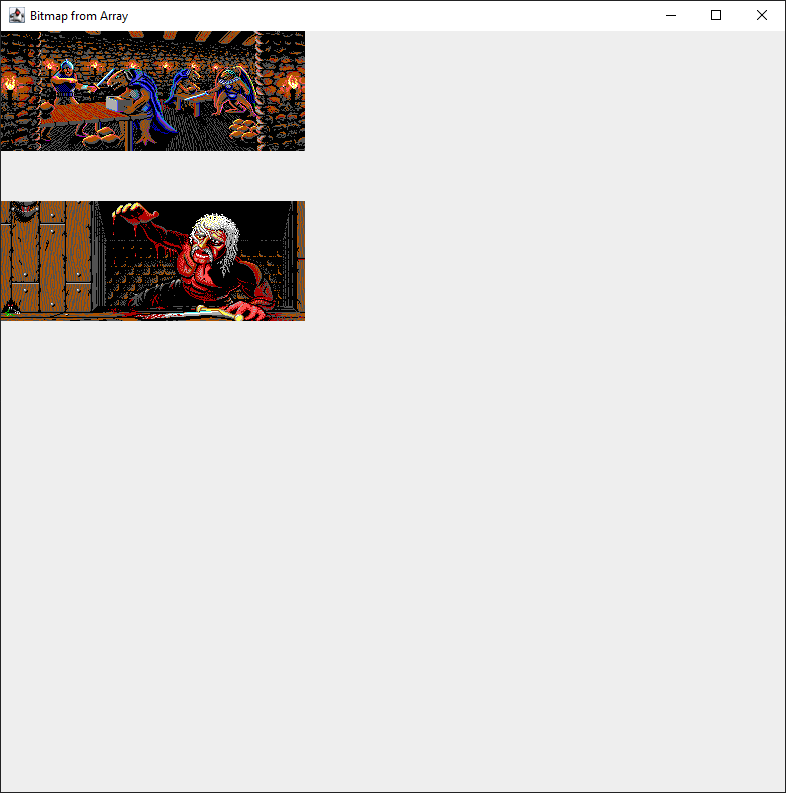
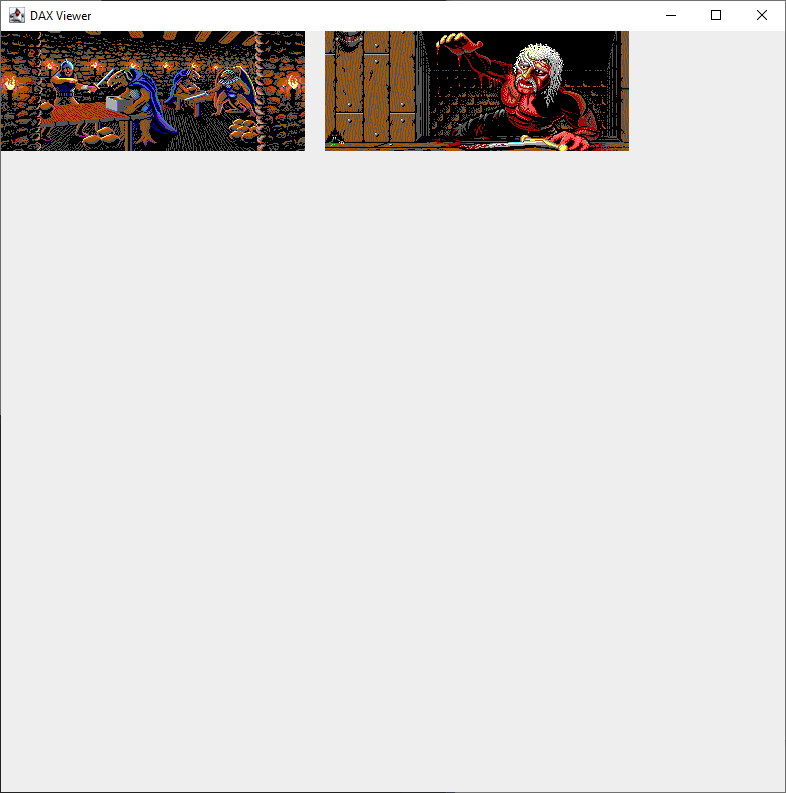
use correct image type

diff --git a/src/org/vafada/daxviewer/EgaSpriteBlock.java b/src/org/vafada/daxviewer/EgaSpriteBlock.java
@@ -17,7 +17,7 @@ public class EgaSpriteBlock extends RenderBlock {
 
         Color[] colors = new Color[16];
         for (int i = 0; i < 16; i++) {
-            colors[i] = new Color(EgaVgaPalette.EgaColors[i], true); // 'true' means use alpha
+            colors[i] = new Color(EgaVgaPalette.EgaColors[i], false); // 'true' means use alpha
         }
 
         var filename = block.getFilename();
@@ -26,7 +26,7 @@ public class EgaSpriteBlock extends RenderBlock {
 
         if (filename.startsWith("SPRI")) {
             colors[0] = new Color(0, 0, 0, 0);
-            colors[13] = new Color(EgaVgaPalette.EgaColors[0], true);
+            colors[13] = new Color(EgaVgaPalette.EgaColors[0], false);
         }
 
 
@@ -72,7 +72,7 @@ public class EgaSpriteBlock extends RenderBlock {
                 }
             }
 
-            var bitmap = new BufferedImage((width_px + x_pos_px), (height_px + y_pos_px), BufferedImage.TYPE_USHORT_555_RGB);
+            var bitmap = new BufferedImage((width_px + x_pos_px), (height_px + y_pos_px), BufferedImage.TYPE_INT_ARGB);
             for (int y = 0; y < height_px; y++) {
                 for (int x = 0; x < width_px; x += 2) {
                     byte b = data[(y * width * 4) + (x / 2) + offset];

diff --git a/src/org/vafada/daxviewer/EgaBlock.java b/src/org/vafada/daxviewer/EgaBlock.java
@@ -47,7 +47,7 @@ public class EgaBlock extends RenderBlock {
             var offset = 0;
             for (var i = 0; i < itemCount; i++, offset += egaDataSize) {
                 var bitmap = new BufferedImage((widthPx + xPosPx), (heightPx + yPosPx),
-                        BufferedImage.TYPE_USHORT_555_RGB);
+                        BufferedImage.TYPE_INT_ARGB);
                 for (var y = 0; y < heightPx; y++) {
                     for (var x = 0; x < widthPx; x += 2) {
                         var b = data[egaDataOffset + (y * width * 4) + (x / 2) + offset];

diff --git a/README.md b/README.md
@@ -3,3 +3,5 @@ Java DAX image viewer based on https://github.com/simeonpilgrim/goldboxexplorer
 <img src="img/coab.png">
 <p/>
 <img src="img/cok.png">
+<p/>
+<img src="img/sprite.png">
